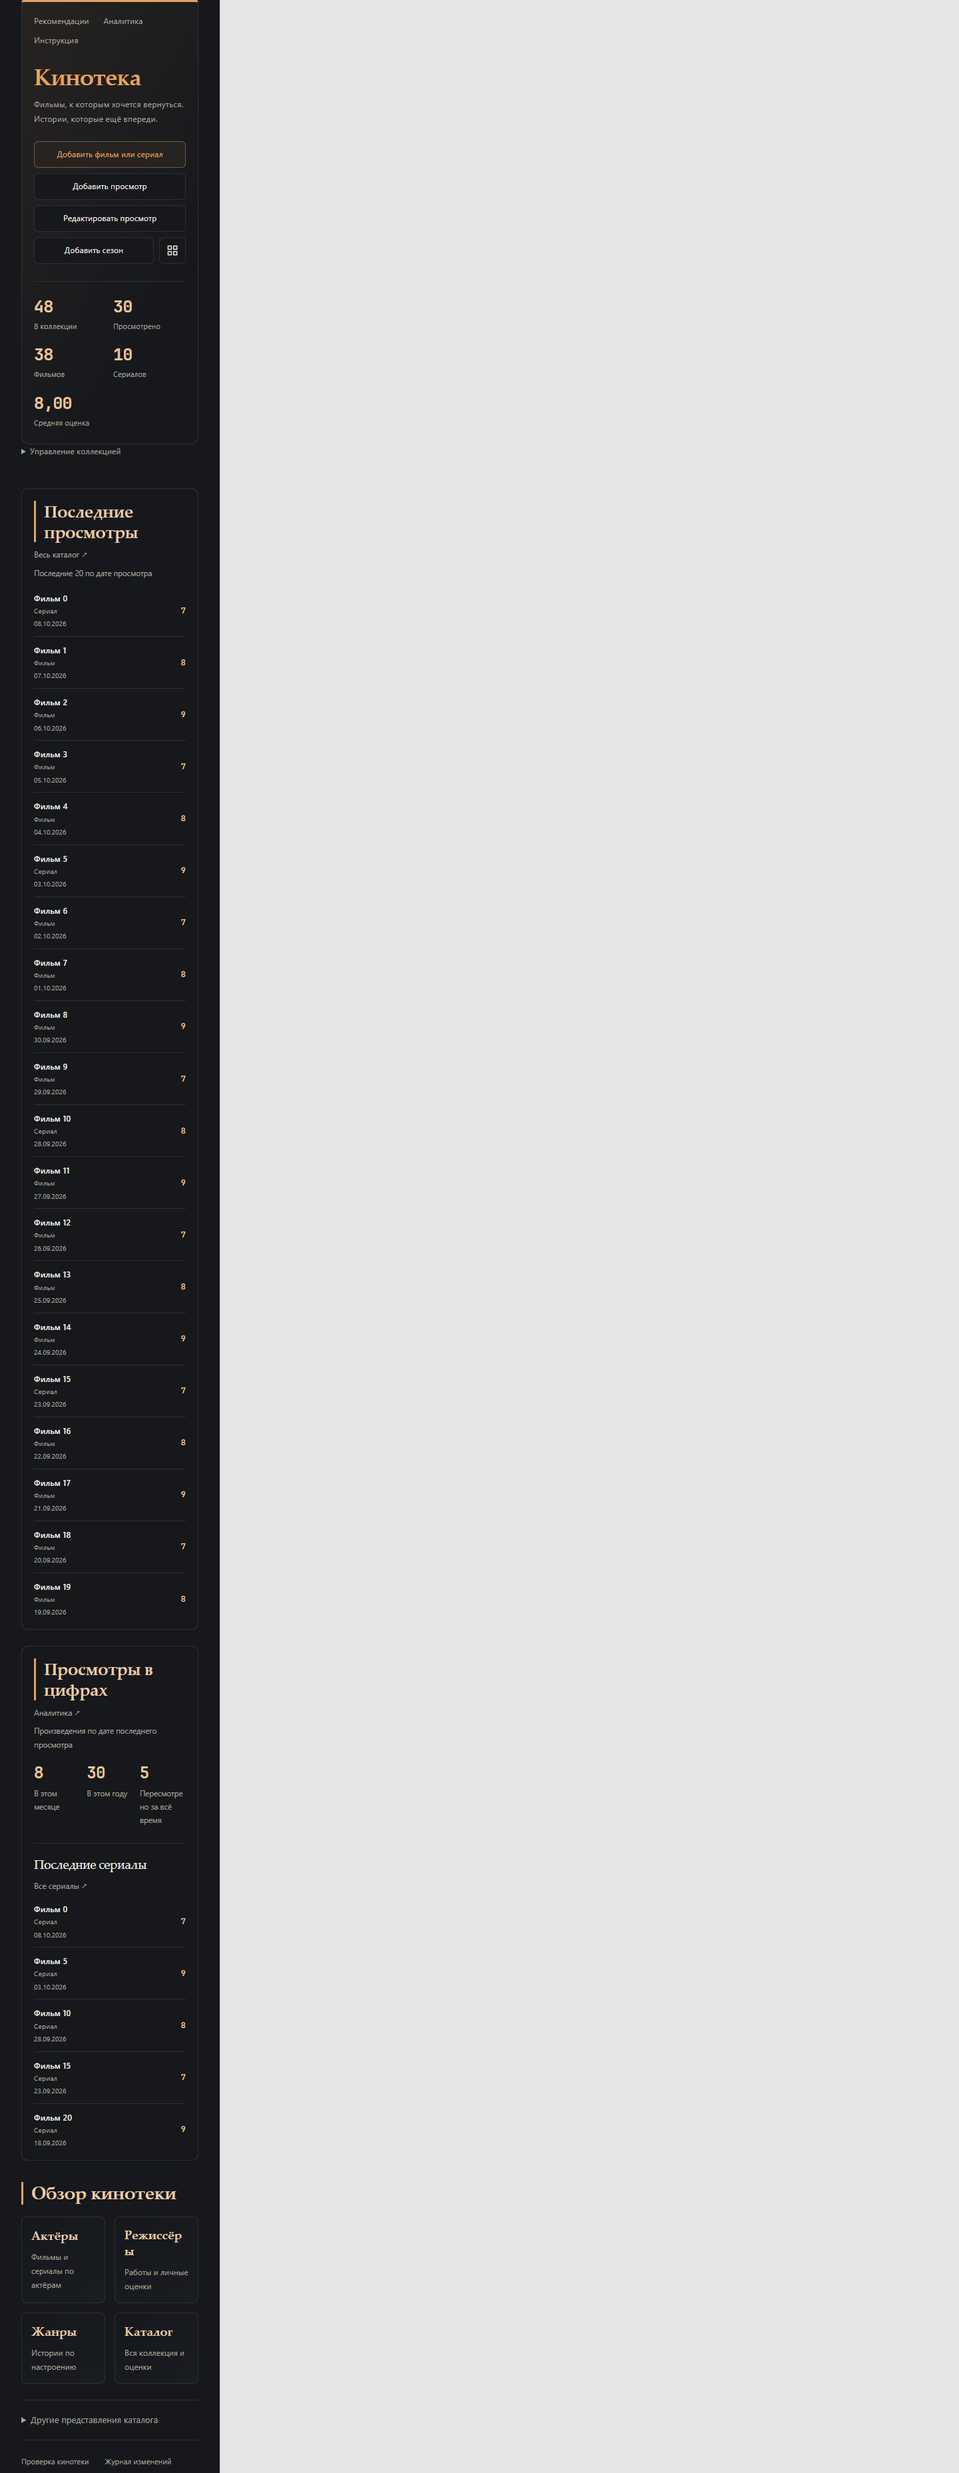
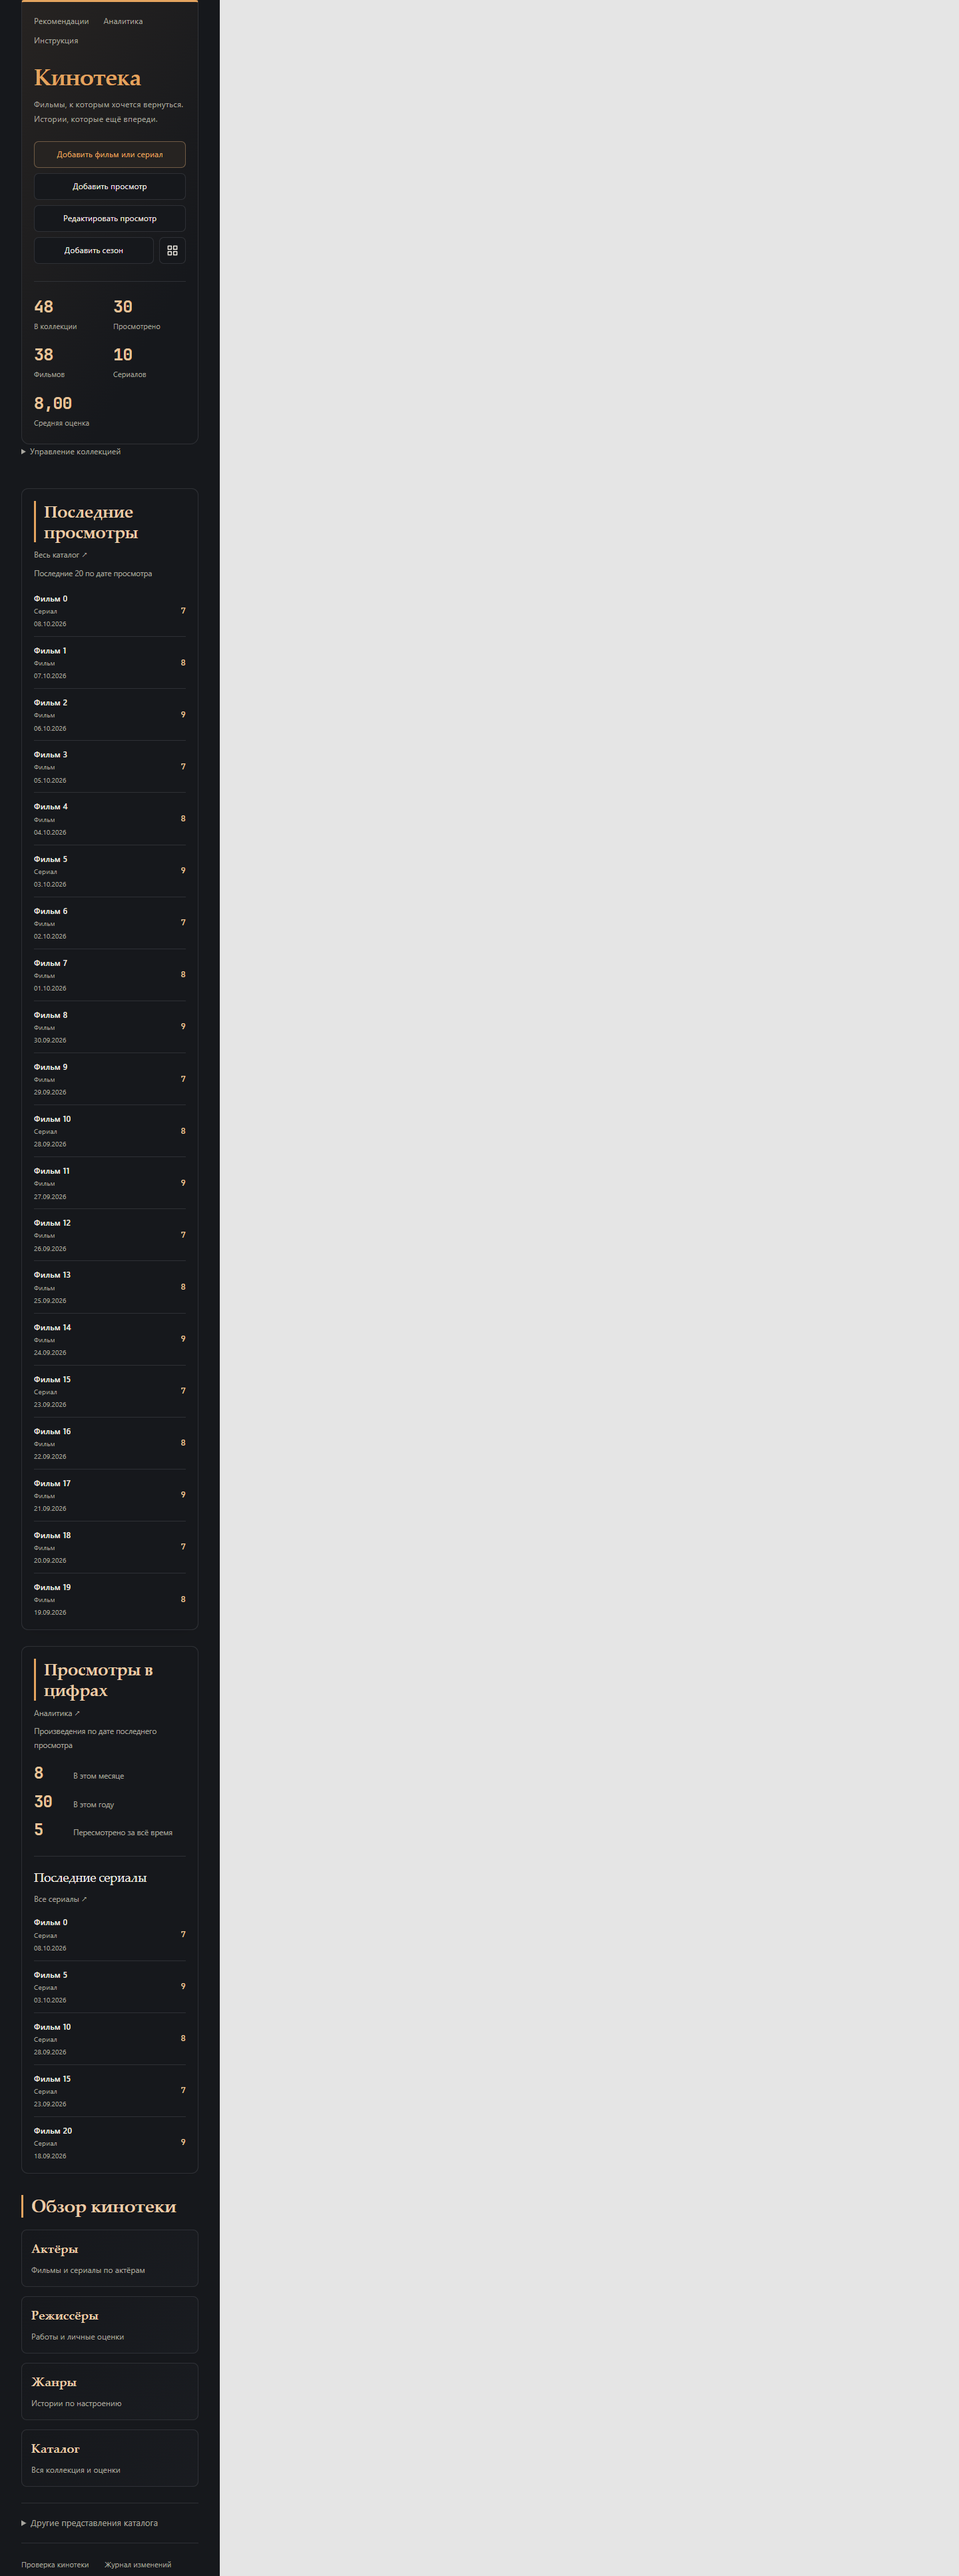
vault backup: 2026-10-08 23:55:11

Changed region(s): [[0.0312, 0.0937, 0.1875, 0.9997], [0.0312, 0.0, 0.1875, 0.1562], [0.125, 0.9372, 0.1562, 0.9997]]

diff --git a/Книги/_system/reading-dashboard.css b/Книги/_system/reading-dashboard.css
@@ -104,7 +104,7 @@
 .book-reading-dashboard.is-index .book-dashboard-metric strong { font: 700 28px/1.2 var(--home-numbers); color: var(--home-number-color) !important; font-variant-numeric: lining-nums tabular-nums; letter-spacing: -.035em; }
 .book-reading-dashboard.is-index .book-dashboard-metric > span { color: var(--text-muted); font-size: .7em; line-height: 1.5; overflow-wrap: anywhere; }
 .book-reading-dashboard.is-index .book-dashboard-content { display: grid; gap: 24px; min-width: 0; max-width: 100%; margin-top: 24px; }
-.book-reading-dashboard.is-index :is(.book-dashboard-overview,.book-dashboard-details-grid) { display: grid; grid-template-columns: repeat(2,minmax(0,1fr)); gap: 24px; min-width: 0; max-width: 100%; }
+.book-reading-dashboard.is-index :is(.book-dashboard-overview,.book-dashboard-details-grid) { display: grid; grid-template-columns: repeat(2,minmax(0,1fr)); align-items: start; gap: 24px; min-width: 0; max-width: 100%; }
 .book-reading-dashboard.is-index .book-dashboard-section { min-width: 0; max-width: 100%; margin: 0; padding: 24px; border: 1px solid var(--home-line); border-radius: 10px; background: var(--background-primary); box-shadow: 0 2px 5px rgb(0 0 0 / 3%),0 12px 26px rgb(0 0 0 / 3%); }
 .book-reading-dashboard.is-index .book-dashboard-section > h2 { margin: 0 0 18px; padding-inline-start: 12px; border-inline-start: 3px solid var(--home-accent); color: var(--home-heading-color) !important; font: 700 27px/1.25 var(--home-serif) !important; letter-spacing: -.015em; overflow-wrap: anywhere; }
 .book-reading-dashboard.is-index .book-dashboard-comparison { margin: 14px 0 7px; color: var(--home-heading-color); font-size: .82em; line-height: 1.65; overflow-wrap: anywhere; }
@@ -147,7 +147,7 @@
 .book-reading-dashboard.is-index .book-dashboard-section:is(.is-activity,.is-authors) td:not(:first-child),
 .book-reading-dashboard.is-index .book-dashboard-section.is-favorites td:last-child,
 .book-reading-dashboard.is-index .book-dashboard-section.is-readings td:nth-child(5) { color: var(--home-number-color); font-family: var(--home-numbers); font-weight: 700; }
-.book-reading-dashboard.is-index .book-dashboard-year-link { padding: 0; border: 0; border-radius: 0; background: none; color: var(--home-accent); font: 700 15px/1.65 var(--home-numbers); font-variant-numeric: lining-nums tabular-nums; }
+.book-reading-dashboard.is-index .book-dashboard-year-link { padding: 0; border: 0; border-radius: 0; background: none; color: var(--home-accent); font: 700 15px/1.65 var(--home-numbers); font-variant-numeric: lining-nums tabular-nums; white-space: nowrap; overflow-wrap: normal; }
 .book-reading-dashboard.is-index .book-dashboard-year-link:hover { text-decoration: underline; }
 .book-reading-dashboard.is-index .book-dashboard-month-reset { margin-left: 2px; padding: 2px 8px; border: 1px solid color-mix(in srgb,var(--home-accent) 35%,var(--home-line)); border-radius: 6px; background: var(--home-tint); color: var(--home-accent); font: inherit; font-size: .8em; line-height: 1.5; }
 .book-reading-dashboard.is-index .book-dashboard-memory { margin: 12px 0; padding: 12px 16px; border-color: var(--home-line); border-radius: 8px; background: color-mix(in srgb,var(--background-secondary) 25%,var(--background-primary)); }

diff --git a/Книги/_system/reading_dashboard.js b/Книги/_system/reading_dashboard.js
@@ -369,7 +369,7 @@ async function render({ dv, app, obsidian, mode = "index" }) {
     }
     function yearHistory(parent, model) {
         if (!model.years.length) { element(parent, "p", "История чтений пока пуста.", "books-empty"); return; }
-        table(parent, ["Год", "Чтений", "Художественных", "Non-fiction"], model.years.map(row => [cell => {
+        table(parent, ["Год", "Чтений", "Художественных", "Нон-фикшн"], model.years.map(row => [cell => {
             const button = element(cell, "button", row.year, "book-dashboard-year-link");
             button.addEventListener("click", () => setPeriod(row.year, ""));
         }, row.readings, row.fiction, row.nonfiction]));

diff --git a/Кино/_system/Редизайн — прогресс.md b/Кино/_system/Редизайн — прогресс.md
@@ -1,14 +1,21 @@
 # Редизайн кинотеки — точка продолжения
 
-Обновлено: 08.10.2026. **В работе: главная кинотеки по образцу главной книг.** Основной редизайн, компактные строки, шапка и выбор года уже завершены; массовые миграции повторно не выполнять.
+Обновлено: 08.10.2026. **Главная кинотеки по образцу Книг завершена.** Основной редизайн, компактные строки, шапка и выбор года тоже завершены; массовые миграции повторно не выполнять. При «продолжай» сначала прочитать этот файл и актуальный запрос.
 
 ## Текущая доработка: главная по образцу Книг
 
-- Запрос: использовать фактическую структуру и оформление `../Книги/_index.md` и `../Книги/_system/library_home.js` / `library-home.css`.
-- До правок сохранены пять текущих файлов: `redesign-backups/home-books-20261008/before.zip`, хеши снимка и исходных файлов Книг — `manifest.json`. Файлы Книг доступны только для сравнения и не меняются.
-- В работе: рамочная шапка, библиотечная типографика, пять счётчиков, компактные последние просмотры, панель статистики и обзор актёров/режиссёров/жанров/каталога. Данные Media, команды, Bases и постеры не переписываются.
-- Добавлены `kino-home.css` и загрузчик в главную; общий `kino_home.js` и браузерные проверки разрабатываются параллельно. Семь прежних Button-блоков сохранены дословно.
-- Осталось: завершить renderer, проверить актуальные счётчики и все действия, адаптацию 330/390/768/1440 px, ошибки/обновления/освобождение компонентов; зафиксировать результаты.
+- **Завершена. Оставшихся задач этого запроса нет.** Запрос пользователя: использовать фактическую структуру и оформление `../Книги/_index.md` и модулей `library_home.js` / `library-home.css`.
+- До правок сохранены пять текущих файлов: `redesign-backups/home-books-20261008/before.zip`, хеши снимка и файлов-образцов — `manifest.json`.
+- Выполнено: рамочная шапка, serif-заголовки как в Книгах, компактные действия и пять счётчиков; последние 20 просмотров строками; статистика по месяцу/году и перепросмотрам; последние пять сериалов; обзор актёров, режиссёров, жанров и каталога. Дополнительные таблицы раскрываются по запросу. При недоступном модуле остаются обычные ссылки и команды.
+- Сохранены все семь QuickAdd-действий и их прежние Button ID; Button-блоки совпадают со снимком побайтно. Все шесть прежних навигационных путей, три представления последних/перепросмотров/сериалов и сравнение оценок доступны. Команды не добавлялись, не удалялись и не переименовывались; три кнопки выбора персоны/жанра используют уже существующие команды.
+- Семантика прежних счётчиков сохранена: только непосредственные заметки Media с movies/serial, «Просмотрено» — непустое по null поле, средняя — все конечные значения с десятичной запятой, без нового фильтра 1–10. Новые показатели месяца/года считают произведения по дате последней активности, а не число отдельных событий просмотра; это подписано в интерфейсе.
+- Добавлены `kino_home.js`, `kino-home.css`, `tests/home-ui.test.cjs`. Изменены `../_index.md`, только последний тест главной в `tests/design-ui.test.cjs` и этот журнал. Файлы Media, роли, сезоны, просмотры и франшизы не переписывались. `_Кино.base` и общий `kino-design.css` совпадают со снимком. Постеры карточек остаются в самом низу.
+- Стиль главной загружается модулем локально, как в Книгах; новых настроек/snippets не требуется. При старом открытом интерфейсе достаточно переоткрыть `Кино/_index.md` в режиме чтения.
+- Проверено **17/17**: новая главная Chrome 9/9, общий набор design-ui 8/8. Данные, пустые/некорректные даты, ноль/запятая в оценках, двойные теги, сортировка, все команды и URI fallback, ошибки/занятость, подписки, обновление без скачка прокрутки, native Bases и позднее завершение загрузки после ухода со страницы — проходят.
+- Реальные модули главных Книг и Кино сравнены на 390/768/1440 px и в панели 330 px при окне 1440 px, с Things и всеми активными snippets, включая поздний Gruvbox. На самой узкой панели обзор становится одной колонкой: «Режиссёры» и «Пересмотрено» не разрываются внутри слова. Восемь PNG `redesign-backups/previews/home-books-{reference|cinema}-{390|768|1440|pane-330}.png` — браузерный стенд с контролируемыми данными, не снимки живого Obsidian. Просмотрены компьютерный, телефонный и узкий варианты.
+- Проверен синтаксис **28 JS и 6587 DataviewJS-блоков**. Побайтно проверены каталог, общий CSS, семь Button-блоков и пять защищённых файлов логики/таблиц. Отчёт: `redesign-backups/home-books-20261008/preservation.json`; логи: `home-ui-tests.txt`, `home-ui-tests-latest.txt`; итог: `qa.json` в той же папке.
+- Файлы Книг эта задача только читала. Во время работы внешний процесс изменил их главную и CSS: сравнение хешей подтвердило только комментарий о fallback и исправление измерения высоты Obsidian; renderer не изменился. Эти внешние правки сохранены, структура эталона сверена заново.
+- Старый общий `redesign_verify.cjs` проходит синтаксис/кнопки/каталог/защищённую логику, но его финальное сравнение сохранённых рекомендаций с архивом 05.10 сообщает различие. `Рекомендации.md` изменён 07.10, до снимка этой доработки 08.10; главная его не записывала. Текущие рекомендации сохранены, старый успешный отчёт не подменён. Проверка этого этапа использует актуальный снимок выше.
 
 ## Текущая доработка: шапка и выбор года
 
